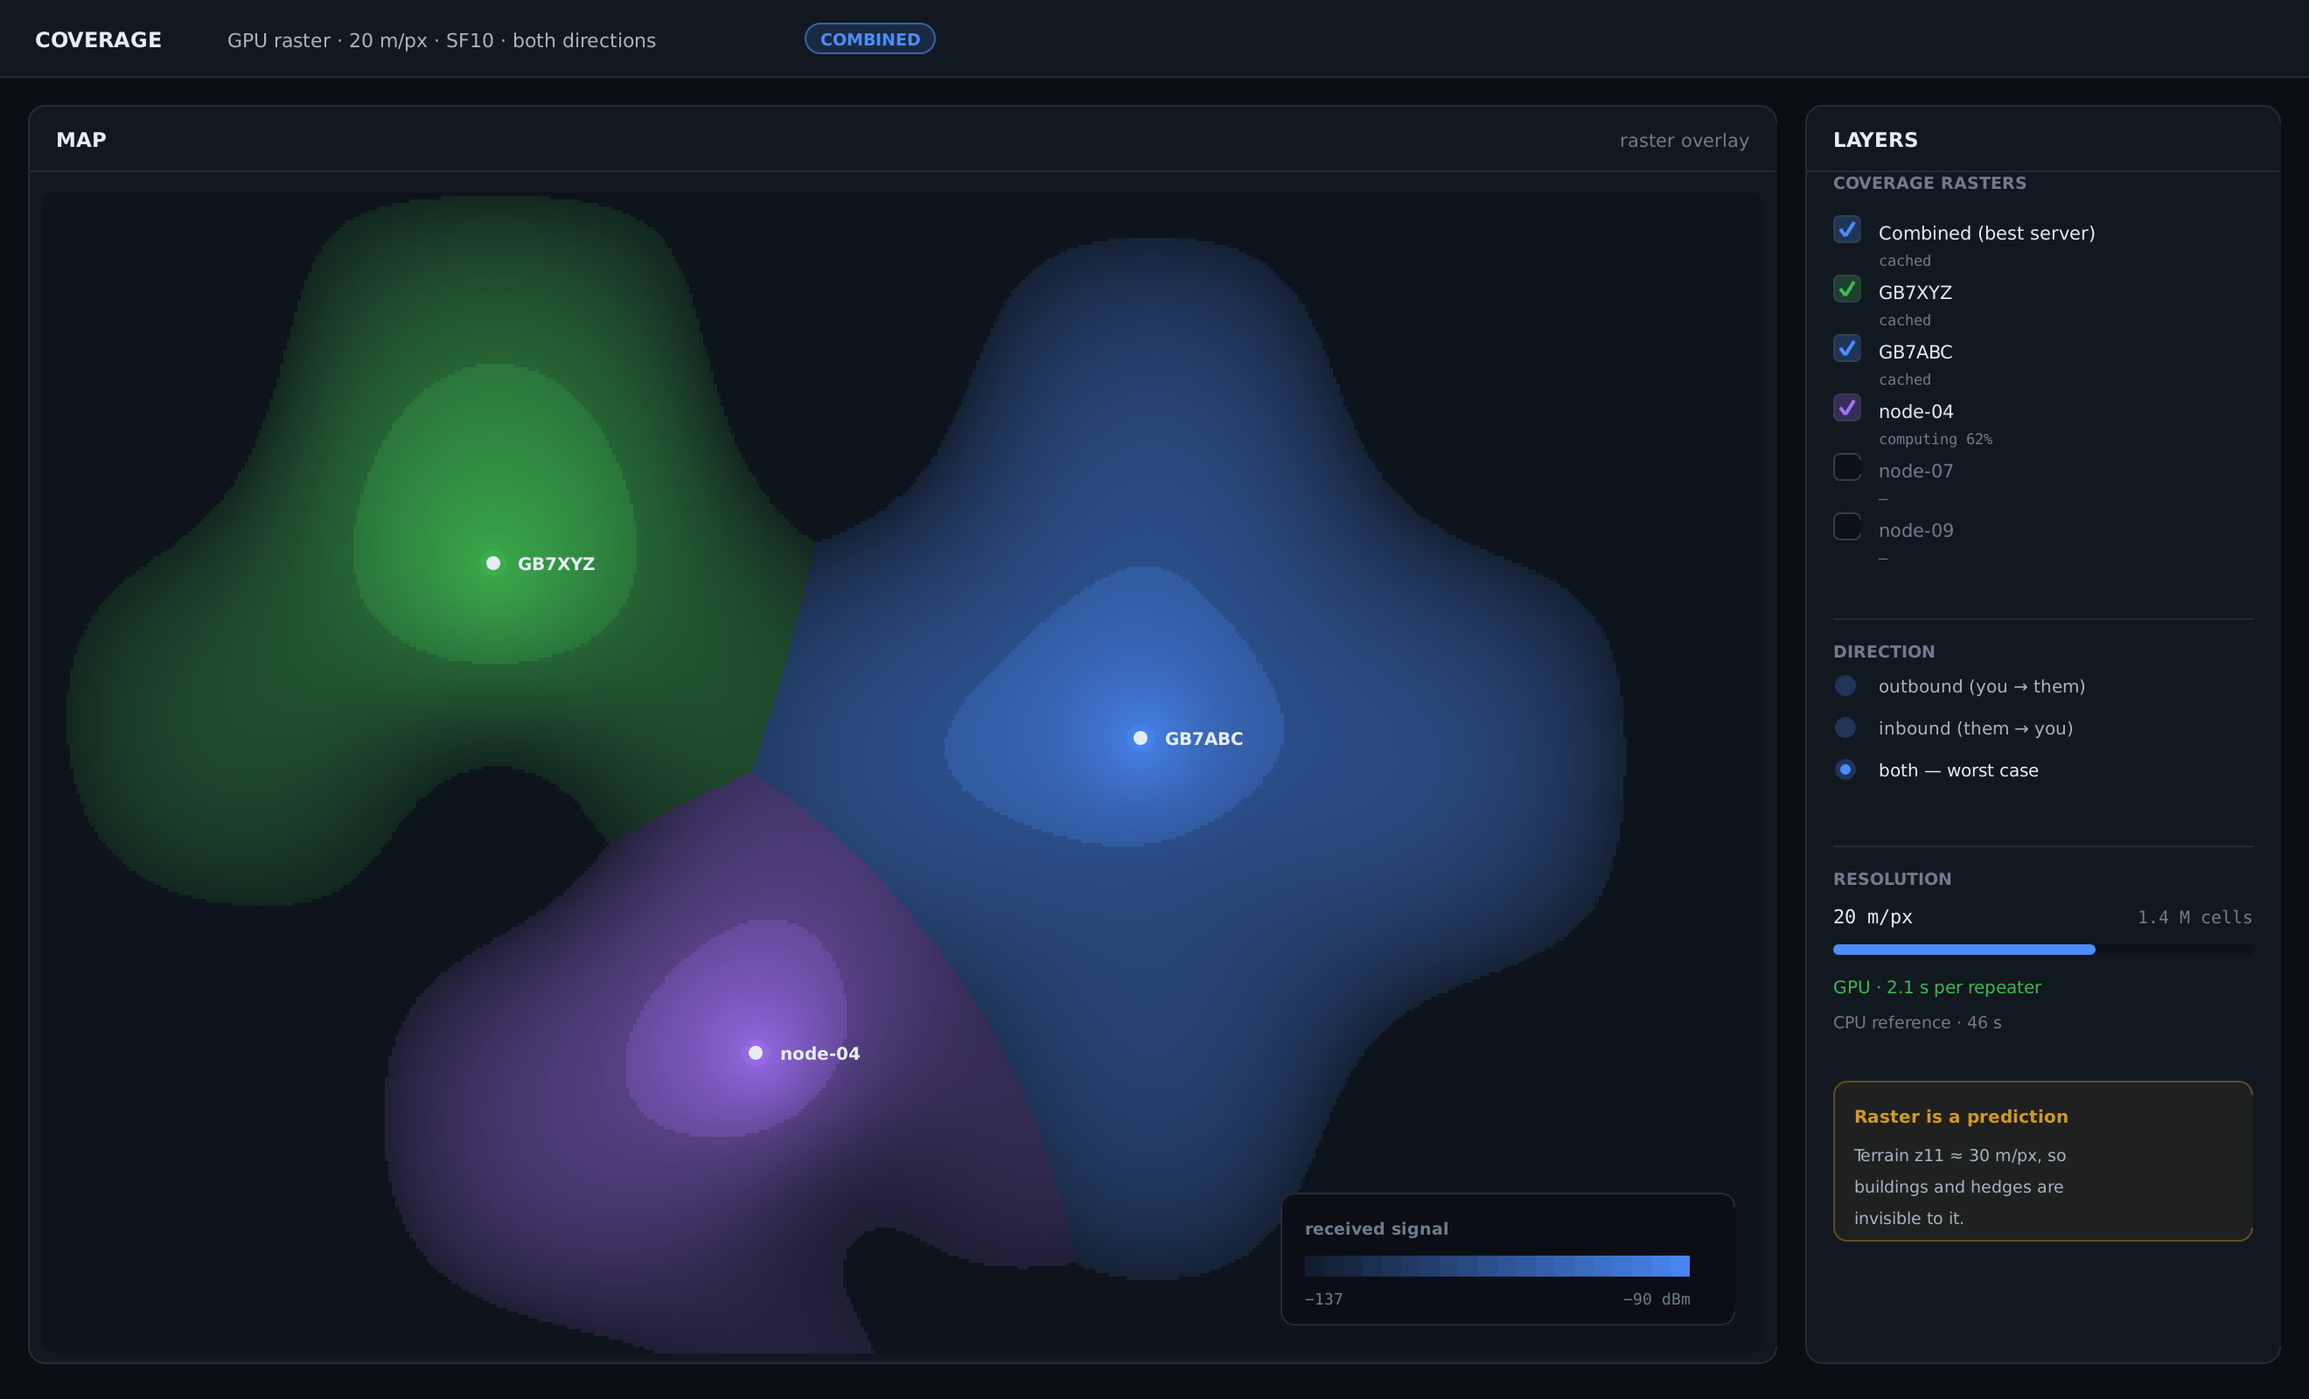
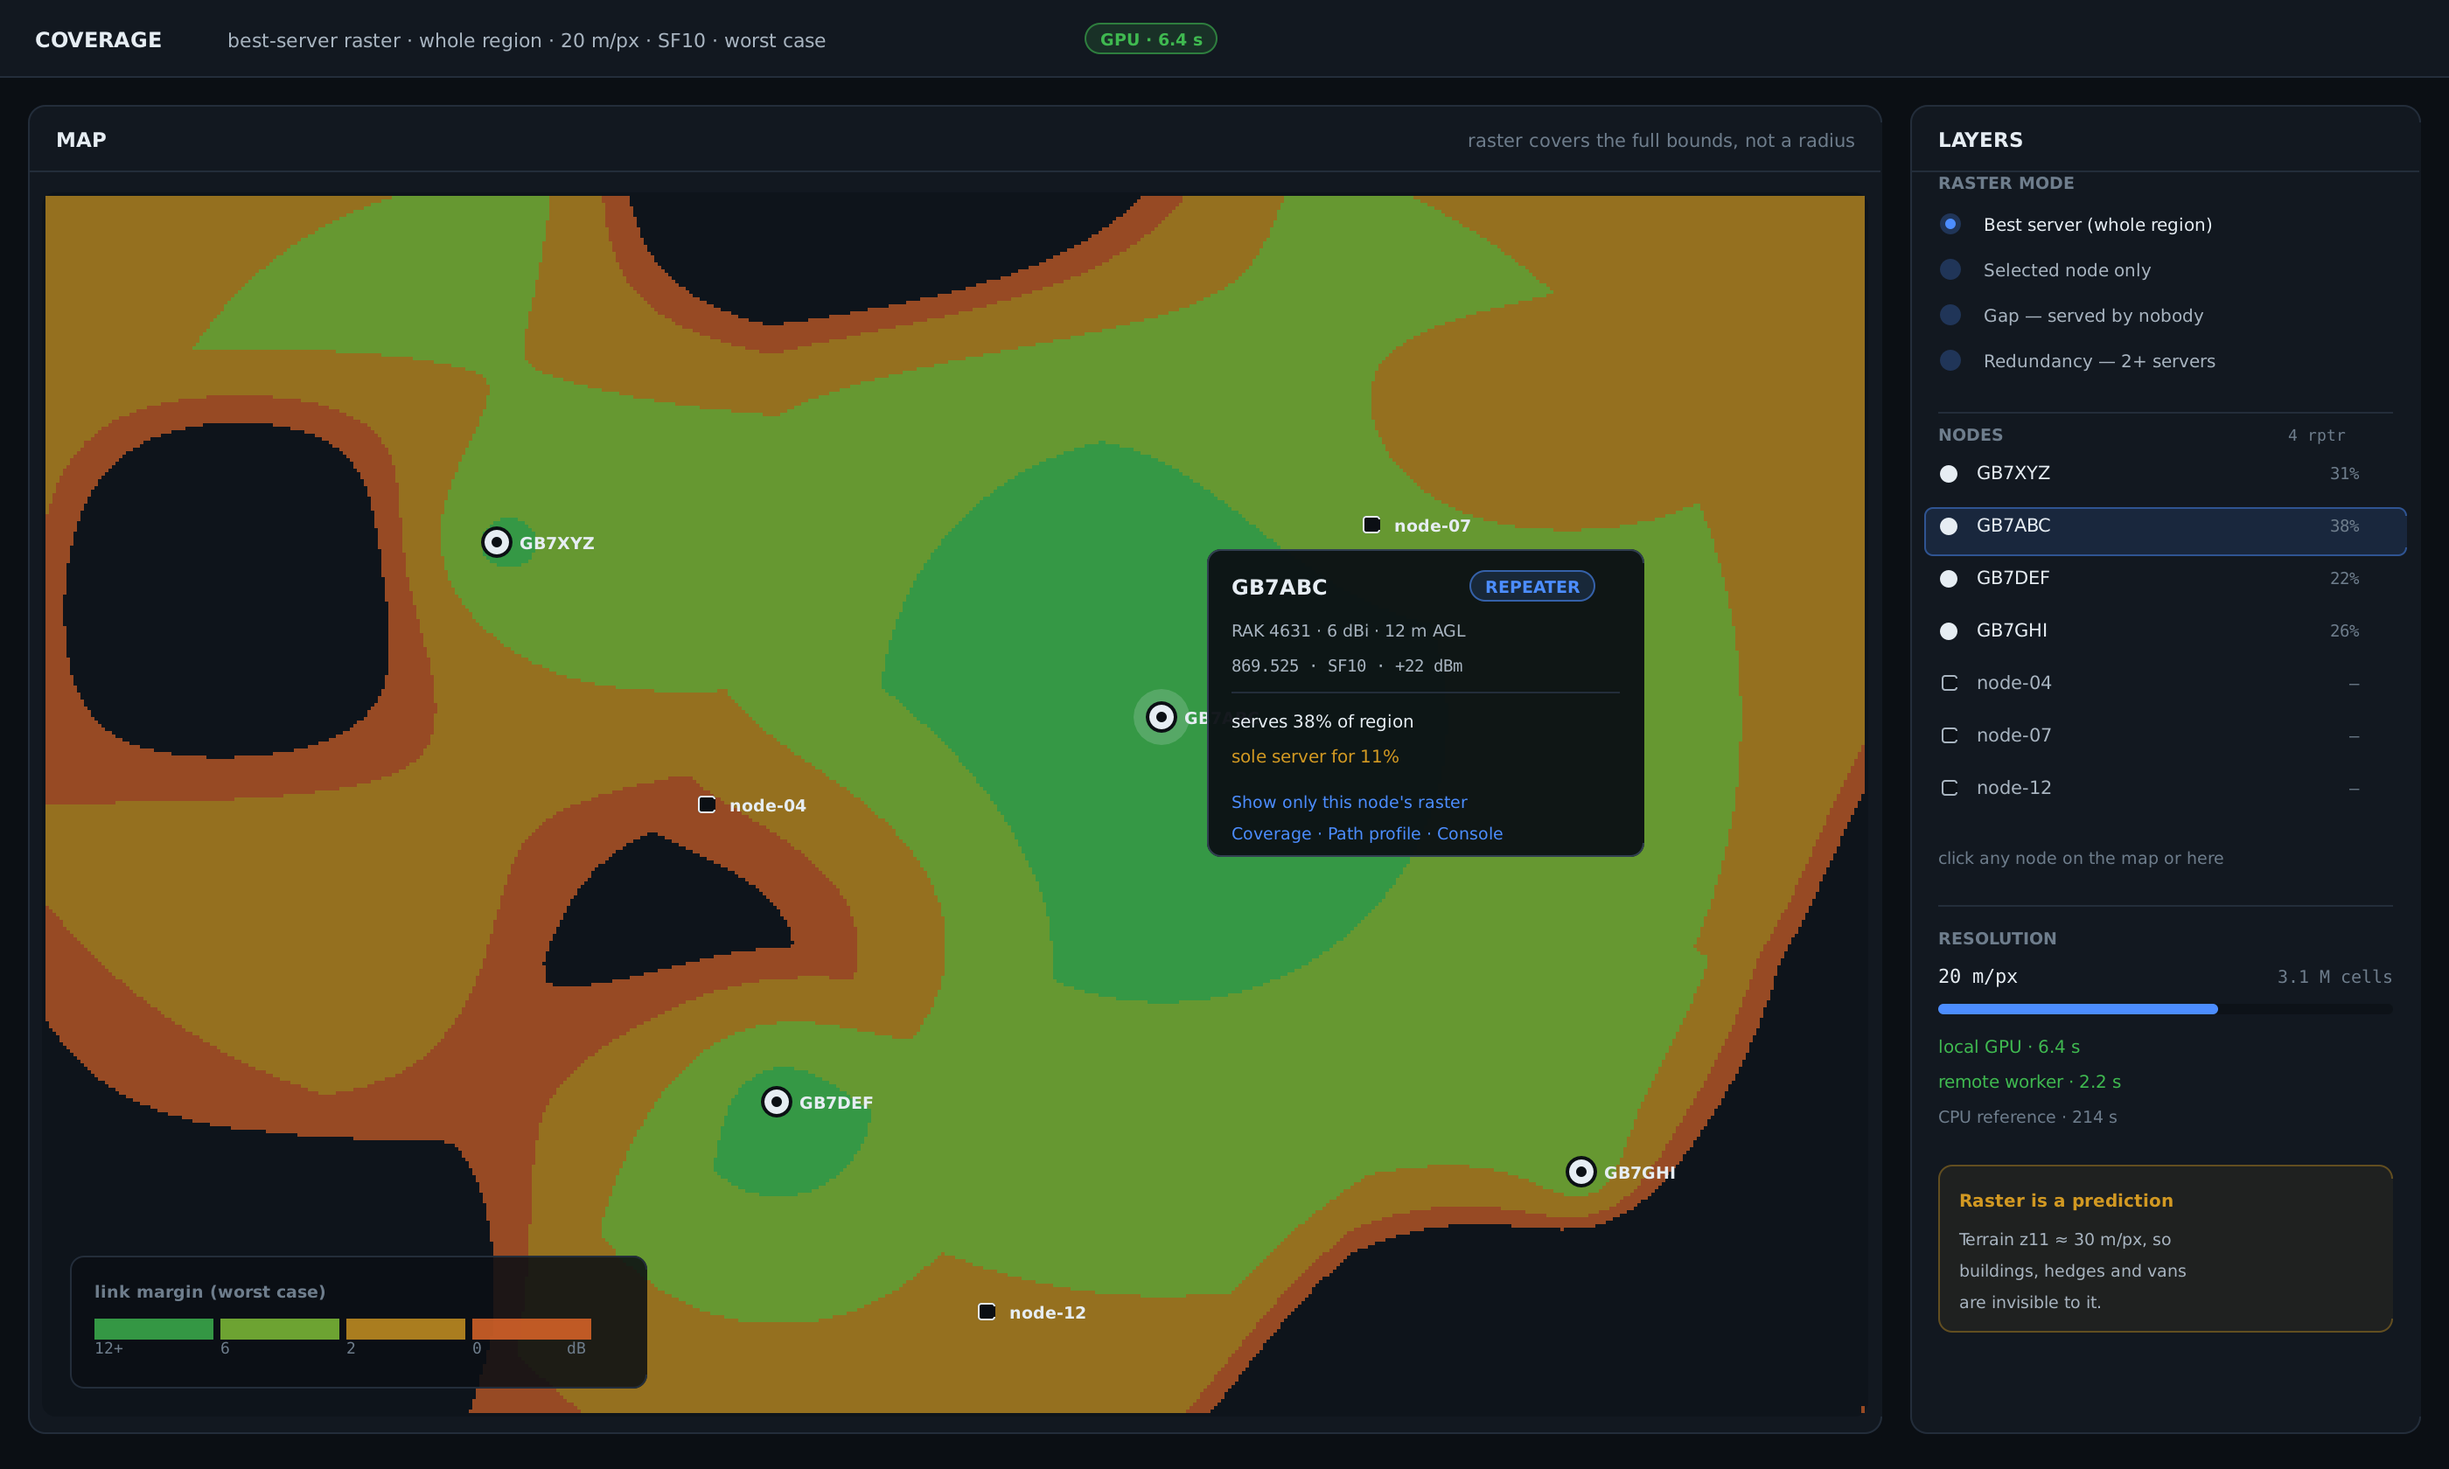
Redraw coverage as a full-bounds raster with selectable nodes
I had drawn per-node blobs, which is not what HopReach does and not what was
asked for. Read the reference implementation instead of guessing:
internal/coverage/coverage.go's Raster() renders a best-server heatmap over
the whole bounds as one image, coloured by margin via marginsToImage(), with
RasterSupersampled for quality and internal/gpujob dispatching passes to a
remote GPU worker.

So the primary mode is now a continuous field over the entire region, shaped
by terrain rather than by radius, with genuine no-service areas. Per-node
rasters become a selection mode rather than the default.

Repeaters and companions are distinguishable by shape as well as colour, both
clickable, with a selection popover carrying the two numbers that matter for
planning: share of region served, and share where this node is the sole
server. The layers panel adds gap and redundancy modes.

First attempt had the falloff inverted — saturated coverage everywhere with
dark holes. Caught by looking at the render.

Claude-Session: https://claude.ai/code/session_01TGXGCDQQHLL9Bqo9GBsyrw

diff --git a/tools/mockup/panels3.go b/tools/mockup/panels3.go
@@ -59,109 +59,133 @@ func interference() *m.Canvas {
 	return c
 }
 
-// coverage shows the raster map: per-repeater layers, or a combined view.
+// coverage shows a full-bounds best-server raster — the whole map coloured by
+// link margin, as HopReach's coverage.Raster does — with node markers on top and
+// one selected.
 func coverage() *m.Canvas {
-	c := m.New(1320, 800)
-	c.Fill(0, 0, 1320, 44, m.BgSurface)
-	c.Line(0, 44, 1320, 44, m.Border, 1, 0)
+	c := m.New(1400, 840)
+	c.Fill(0, 0, 1400, 44, m.BgSurface)
+	c.Line(0, 44, 1400, 44, m.Border, 1, 0)
 	c.Text(20, 27, "COVERAGE", m.TextHi, m.SansBold, 12)
-	c.Text(130, 27, "GPU raster · 20 m/px · SF10 · both directions", m.TextMid, m.Sans, 11)
-	pill(c, 460, 13, "COMBINED", m.Accent)
+	c.Text(130, 27, "best-server raster · whole region · 20 m/px · SF10 · worst case", m.TextMid, m.Sans, 11)
+	pill(c, 620, 13, "GPU · 6.4 s", m.Good)
 
-	mx, my := card(c, 16, 60, 1000, 720, "MAP", "raster overlay")
-	c.RoundRect(mx-8, my-12, 984, 664, 8, m.Sky, nil)
+	mx, my := card(c, 16, 60, 1060, 760, "MAP", "raster covers the full bounds, not a radius")
+	W, H := 1044, 700
+	ox, oy := mx-8, my-12
+	c.RoundRect(ox, oy, W, H, 8, m.Sky, nil)
 
-	// combined coverage field from three sources
-	type src struct {
-		x, y, r int
-		col     m.NRGBA
+	// Sites contributing to the best-server field.
+	type site struct{ x, y, erp int }
+	sites := []site{
+		{ox + 260, oy + 200, 230}, {ox + 640, oy + 300, 270},
+		{ox + 420, oy + 520, 190}, {ox + 880, oy + 560, 200},
 	}
-	srcs := []src{
-		{mx + 250, my + 200, 210, m.Good},
-		{mx + 620, my + 300, 250, m.Accent},
-		{mx + 400, my + 480, 180, m.Violet},
-	}
-	for px := 0; px < 984; px += 2 {
-		for py := 0; py < 664; py += 2 {
-			gx, gy := mx-8+px, my-12+py
-			best, bcol := 0.0, m.NRGBA{}
-			for _, s := range srcs {
+
+	// Full-bounds raster: every cell gets the best margin from any site, with
+	// terrain shadowing, so the field is continuous and irregular rather than a
+	// set of circles.
+	for px := 0; px < W-4; px += 2 {
+		for py := 0; py < H-4; py += 2 {
+			gx, gy := ox+2+px, oy+2+py
+			best := -99.0
+			// Terrain: ridges carve shadows, so the field is irregular rather than
+			// a set of circles. Shared across sites — it is the same ground.
+			ridge := m.Sin(float64(gx)/110)*m.Cos(float64(gy)/86) + 0.55*m.Sin(float64(gx+gy)/150) + 0.3*m.Cos(float64(gx-gy)/95)
+			shadow := 0.0
+			if ridge < 0.10 {
+				shadow = (0.10 - ridge) * 15
+			}
+			for _, s := range sites {
 				dx, dy := float64(gx-s.x), float64(gy-s.y)
-				d := m.Sqrt(dx*dx + dy*dy)
-				// terrain-shadowed falloff, not a circle
-				shade := 1 + 0.45*m.Sin(float64(gx)/60)*m.Cos(float64(gy)/70)
-				v := 1 - d/(float64(s.r)*shade)
-				if v > best {
-					best, bcol = v, s.col
+				d := m.Sqrt(dx*dx+dy*dy) + 30
+				margin := float64(s.erp)/10 - 22*m.Log10(d/40) - shadow
+				if margin > best {
+					best = margin
 				}
 			}
-			if best > 0 {
-				a := uint8(30 + 150*best)
-				if best > 0.62 {
-					a = uint8(150 + 80*(best-0.62)/0.38)
-				}
-				c.Fill(gx, gy, 2, 2, m.Alpha(bcol, a))
+			var col m.NRGBA
+			switch {
+			case best >= 12:
+				col = m.Alpha(m.Good, 0xcc)
+			case best >= 6:
+				col = m.Alpha(m.NRGBA{0x86, 0xc8, 0x3a, 0xff}, 0xbb)
+			case best >= 2:
+				col = m.Alpha(m.Warn, 0xb0)
+			case best >= 0:
+				col = m.Alpha(m.NRGBA{0xe8, 0x6a, 0x2a, 0xff}, 0xa0)
+			default:
+				continue // no service — basemap shows through
 			}
+			c.Fill(gx, gy, 2, 2, col)
 		}
 	}
-	for _, s := range srcs {
-		c.Dot(s.x, s.y, 8, m.Alpha(s.col, 0x60))
-		c.Dot(s.x, s.y, 4, m.TextHi)
-	}
-	c.Text(srcs[0].x+14, srcs[0].y+4, "GB7XYZ", m.TextHi, m.SansBold, 10)
-	c.Text(srcs[1].x+14, srcs[1].y+4, "GB7ABC", m.TextHi, m.SansBold, 10)
-	c.Text(srcs[2].x+14, srcs[2].y+4, "node-04", m.TextHi, m.SansBold, 10)
 
-	// scale legend
-	c.RoundRect(mx+700, my+560, 260, 76, 8, m.Alpha(m.BgDeep, 0xdd), m.Border)
-	c.Text(mx+714, my+584, "received signal", m.TextLo, m.SansBold, 9.5)
-	for i := 0; i < 20; i++ {
-		c.Fill(mx+714+i*11, my+596, 11, 12, m.Alpha(m.Accent, uint8(30+i*11)))
+	// nodes: repeaters and companions, distinguished by shape as well as colour
+	type nodeM struct {
+		x, y     int
+		name     string
+		repeater bool
+		selected bool
 	}
-	c.Text(mx+714, my+624, "−137", m.TextLo, m.Mono, 9)
-	c.TextRight(mx+934, my+624, "−90 dBm", m.TextLo, m.Mono, 9)
+	nodes := []nodeM{
+		{sites[0].x, sites[0].y, "GB7XYZ", true, false},
+		{sites[1].x, sites[1].y, "GB7ABC", true, true},
+		{sites[2].x, sites[2].y, "GB7DEF", true, false},
+		{sites[3].x, sites[3].y, "GB7GHI", true, false},
+		{ox + 380, oy + 350, "node-04", false, false},
+		{ox + 760, oy + 190, "node-07", false, false},
+		{ox + 540, oy + 640, "node-12", false, false},
+	}
+	for _, n := range nodes {
+		if n.repeater {
+			if n.selected {
+				c.Dot(n.x, n.y, 16, m.Alpha(m.TextHi, 0x30))
+			}
+			c.Dot(n.x, n.y, 9, m.BgDeep)
+			c.Dot(n.x, n.y, 7, m.TextHi)
+			c.Dot(n.x, n.y, 3, m.BgDeep)
+		} else {
+			c.RoundRect(n.x-5, n.y-5, 10, 10, 2, m.BgDeep, m.TextHi)
+		}
+		c.Text(n.x+13, n.y+4, n.name, m.TextHi, m.SansBold, 9.5)
+	}
 
-	// ── layer panel ──────────────────────────────────────────────────────
-	lx, ly := card(c, 1032, 60, 272, 720, "LAYERS", "")
-	c.Text(lx, ly-14, "COVERAGE RASTERS", m.TextLo, m.SansBold, 9.5)
-	layers := []struct {
-		name  string
-		on    bool
+	// selection popover for the clicked repeater
+	sx, sy := sites[1].x+26, sites[1].y-96
+	c.RoundRect(sx, sy, 250, 176, 8, m.Alpha(m.BgDeep, 0xf2), m.BorderLit)
+	c.Text(sx+14, sy+26, "GB7ABC", m.TextHi, m.SansBold, 12)
+	pill(c, sx+150, sy+12, "REPEATER", m.Accent)
+	c.Text(sx+14, sy+50, "RAK 4631 · 6 dBi · 12 m AGL", m.TextMid, m.Sans, 9.5)
+	c.Text(sx+14, sy+70, "869.525 · SF10 · +22 dBm", m.TextMid, m.Mono, 9.5)
+	c.Line(sx+14, sy+82, sx+236, sy+82, m.Border, 1, 0)
+	c.Text(sx+14, sy+102, "serves 38% of region", m.TextHi, m.Sans, 10)
+	c.Text(sx+14, sy+122, "sole server for 11%", m.Warn, m.Sans, 10)
+	c.Text(sx+14, sy+148, "Show only this node's raster", m.Accent, m.Sans, 9.5)
+	c.Text(sx+14, sy+166, "Coverage · Path profile · Console", m.Accent, m.Sans, 9.5)
+
+	// legend
+	c.RoundRect(ox+16, oy+H-92, 330, 76, 8, m.Alpha(m.BgDeep, 0xdd), m.Border)
+	c.Text(ox+30, oy+H-68, "link margin (worst case)", m.TextLo, m.SansBold, 9.5)
+	steps := []struct {
 		col   m.NRGBA
-		state string
+		label string
 	}{
-		{"Combined (best server)", true, m.Accent, "cached"},
-		{"GB7XYZ", true, m.Good, "cached"},
-		{"GB7ABC", true, m.Accent, "cached"},
-		{"node-04", true, m.Violet, "computing 62%"},
-		{"node-07", false, m.TextLo, "—"},
-		{"node-09", false, m.TextLo, "—"},
+		{m.Good, "12+"}, {m.NRGBA{0x86, 0xc8, 0x3a, 0xff}, "6"}, {m.Warn, "2"},
+		{m.NRGBA{0xe8, 0x6a, 0x2a, 0xff}, "0"},
 	}
-	for i, l := range layers {
-		yy := ly + 12 + i*34
-		box := m.BgInset
-		if l.on {
-			box = m.Alpha(l.col, 0x40)
-		}
-		c.RoundRect(lx, yy-11, 16, 16, 4, box, m.BorderLit)
-		if l.on {
-			c.Line(lx+4, yy-3, lx+7, yy+1, l.col, 2, 0)
-			c.Line(lx+7, yy+1, lx+12, yy-7, l.col, 2, 0)
-		}
-		col := m.TextHi
-		if !l.on {
-			col = m.TextLo
-		}
-		c.Text(lx+26, yy+3, l.name, col, m.Sans, 10.5)
-		c.Text(lx+26, yy+18, l.state, m.TextLo, m.Mono, 8.5)
+	for i, s := range steps {
+		c.Fill(ox+30+i*72, oy+H-56, 68, 12, m.Alpha(s.col, 0xcc))
+		c.Text(ox+30+i*72, oy+H-36, s.label, m.TextLo, m.Mono, 9)
 	}
+	c.Text(ox+300, oy+H-36, "dB", m.TextLo, m.Mono, 9)
 
-	oy := ly + 12 + len(layers)*34 + 16
-	c.Line(lx, oy, lx+240, oy, m.Border, 1, 0)
-	c.Text(lx, oy+22, "DIRECTION", m.TextLo, m.SansBold, 9.5)
-	for i, d := range []string{"outbound (you → them)", "inbound (them → you)", "both — worst case"} {
-		yy := oy + 42 + i*24
-		sel := i == 2
+	// ── layers ───────────────────────────────────────────────────────────
+	lx, ly := card(c, 1092, 60, 292, 760, "LAYERS", "")
+	c.Text(lx, ly-14, "RASTER MODE", m.TextLo, m.SansBold, 9.5)
+	for i, mode := range []string{"Best server (whole region)", "Selected node only", "Gap — served by nobody", "Redundancy — 2+ servers"} {
+		yy := ly + 10 + i*26
+		sel := i == 0
 		c.Dot(lx+7, yy-4, 6, m.Alpha(m.Accent, 0x40))
 		if sel {
 			c.Dot(lx+7, yy-4, 3, m.Accent)
@@ -170,24 +194,62 @@ func coverage() *m.Canvas {
 		if sel {
 			col = m.TextHi
 		}
-		c.Text(lx+26, yy, d, col, m.Sans, 10)
+		c.Text(lx+26, yy, mode, col, m.Sans, 10)
 	}
 
-	ry := oy + 130
-	c.Line(lx, ry, lx+240, ry, m.Border, 1, 0)
+	ny := ly + 130
+	c.Line(lx, ny-16, lx+260, ny-16, m.Border, 1, 0)
+	c.Text(lx, ny, "NODES", m.TextLo, m.SansBold, 9.5)
+	c.Text(lx+200, ny, "4 rptr", m.TextLo, m.Mono, 9)
+	list := []struct {
+		name string
+		kind string
+		pct  string
+		sel  bool
+	}{
+		{"GB7XYZ", "repeater", "31%", false},
+		{"GB7ABC", "repeater", "38%", true},
+		{"GB7DEF", "repeater", "22%", false},
+		{"GB7GHI", "repeater", "26%", false},
+		{"node-04", "companion", "—", false},
+		{"node-07", "companion", "—", false},
+		{"node-12", "companion", "—", false},
+	}
+	for i, n := range list {
+		yy := ny + 22 + i*30
+		if n.sel {
+			c.RoundRect(lx-8, yy-14, 276, 28, 5, m.Alpha(m.Accent, 0x22), m.Alpha(m.Accent, 0x70))
+		}
+		if n.kind == "repeater" {
+			c.Dot(lx+6, yy-3, 5, m.TextHi)
+		} else {
+			c.RoundRect(lx+2, yy-8, 9, 9, 2, m.BgInset, m.TextMid)
+		}
+		col := m.TextHi
+		if n.kind == "companion" {
+			col = m.TextMid
+		}
+		c.Text(lx+22, yy, n.name, col, m.Sans, 10.5)
+		c.TextRight(lx+240, yy, n.pct, m.TextLo, m.Mono, 9.5)
+	}
+	c.Text(lx, ny+22+len(list)*30+10, "click any node on the map or here", m.TextLo, m.Sans, 9.5)
+
+	ry := ny + 22 + len(list)*30 + 34
+	c.Line(lx, ry, lx+260, ry, m.Border, 1, 0)
 	c.Text(lx, ry+22, "RESOLUTION", m.TextLo, m.SansBold, 9.5)
 	c.Text(lx, ry+44, "20 m/px", m.TextHi, m.Mono, 11)
-	c.TextRight(lx+240, ry+44, "1.4 M cells", m.TextLo, m.Mono, 10)
-	c.RoundRect(lx, ry+56, 240, 6, 3, m.BgInset, nil)
-	c.RoundRect(lx, ry+56, 150, 6, 3, m.Accent, nil)
-	c.Text(lx, ry+84, "GPU · 2.1 s per repeater", m.Good, m.Sans, 10)
-	c.Text(lx, ry+104, "CPU reference · 46 s", m.TextLo, m.Sans, 9.5)
+	c.TextRight(lx+260, ry+44, "3.1 M cells", m.TextLo, m.Mono, 10)
+	c.RoundRect(lx, ry+56, 260, 6, 3, m.BgInset, nil)
+	c.RoundRect(lx, ry+56, 160, 6, 3, m.Accent, nil)
+	c.Text(lx, ry+84, "local GPU · 6.4 s", m.Good, m.Sans, 10)
+	c.Text(lx, ry+104, "remote worker · 2.2 s", m.Good, m.Sans, 10)
+	c.Text(lx, ry+124, "CPU reference · 214 s", m.TextLo, m.Sans, 9.5)
 
-	wy2 := ry + 134
-	c.RoundRect(lx, wy2, 240, 92, 8, m.Alpha(m.Warn, 0x12), m.Alpha(m.Warn, 0x60))
-	c.Text(lx+12, wy2+24, "Raster is a prediction", m.Warn, m.SansBold, 10)
-	c.Text(lx+12, wy2+46, "Terrain z11 ≈ 30 m/px, so", m.TextMid, m.Sans, 9.5)
-	c.Text(lx+12, wy2+64, "buildings and hedges are", m.TextMid, m.Sans, 9.5)
-	c.Text(lx+12, wy2+82, "invisible to it.", m.TextMid, m.Sans, 9.5)
+	wy := ry + 148
+	c.RoundRect(lx, wy, 260, 96, 8, m.Alpha(m.Warn, 0x12), m.Alpha(m.Warn, 0x60))
+	c.Text(lx+12, wy+24, "Raster is a prediction", m.Warn, m.SansBold, 10)
+	c.Text(lx+12, wy+46, "Terrain z11 ≈ 30 m/px, so", m.TextMid, m.Sans, 9.5)
+	c.Text(lx+12, wy+64, "buildings, hedges and vans", m.TextMid, m.Sans, 9.5)
+	c.Text(lx+12, wy+82, "are invisible to it.", m.TextMid, m.Sans, 9.5)
 	return c
 }

diff --git a/internal/mockup/shapes.go b/internal/mockup/shapes.go
@@ -24,6 +24,7 @@ func sin32(a float64) float32  { return float32(math.Sin(a)) }
 func Sin(x float64) float64    { return math.Sin(x) }
 func Cos(x float64) float64    { return math.Cos(x) }
 func Exp(x float64) float64    { return math.Exp(x) }
+func Log10(x float64) float64  { return math.Log10(x) }
 func Sqrt(x float64) float64   { return math.Sqrt(x) }
 func Pow(x, y float64) float64 { return math.Pow(x, y) }
 func Floor(x float64) float64  { return math.Floor(x) }

diff --git a/docs/ux/README.md b/docs/ux/README.md
@@ -15,6 +15,6 @@ rendered at 2x. Requires `fonts-dejavu-core`.
 | `05-energy.png` | Battery and solar over 12 months. The output that matters is *which purchase actually fixes it* — usually the panel, not the battery. |
 | `06-consoles.png` | Multi-console with synchronised timestamps, and mass commands over the virtual UART (never over the air). |
 | `07-interference.png` | External emitters, their effect on the noise floor, and whether a filter would help. |
-| `08-coverage-rasters.png` | The map with per-repeater coverage rasters, a combined best-server layer, direction selector and resolution control. |
+| `08-coverage-rasters.png` | **Full-bounds best-server raster** over the whole region (as HopReach's `coverage.Raster`), coloured by link margin, with clickable repeaters and companions and a per-node selection popover. |
 
 These correspond to the Feature Catalogue pages in Plane project MSIM.
